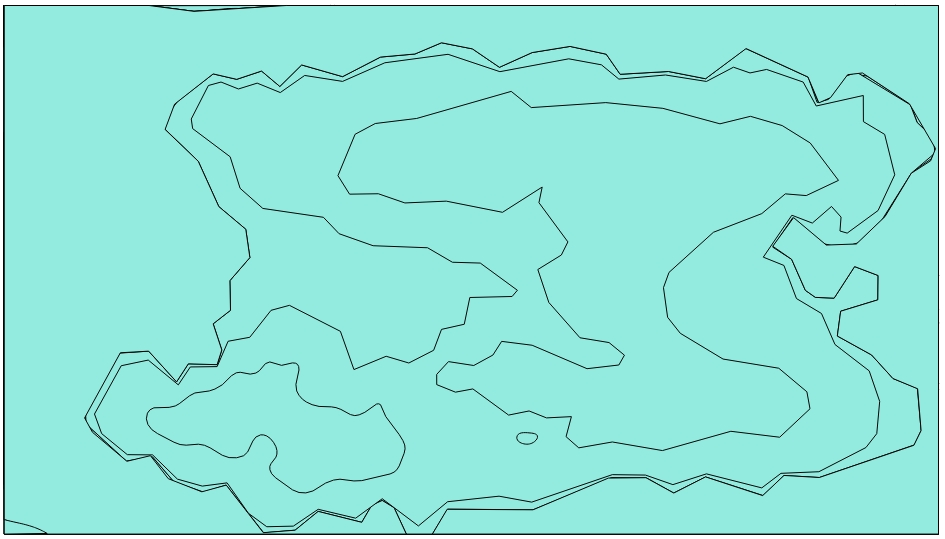
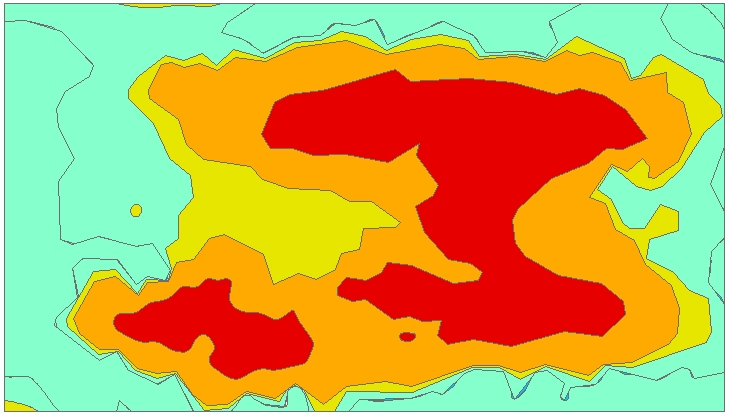
Thesis update.

diff --git a/text/3-technologie.tex b/text/3-technologie.tex
@@ -33,7 +33,7 @@ Android\footnote{\url{http://www.qgis.org/en/site/forusers/download.html}}. Zák
 funkcionalitu pomáhají rozšířit zásuvné moduly psané v jazyce Python
 nebo C++. Je propojen s dalšími open source GIS balíčky jako jsou
 např. GRASS GIS, PostGIS nebo MapServer. QGIS je uvolněn pod licencí
-GNU (\zk{GPL}) verze 2 a vyšší.
+GNU (\zk{GPL}) verze 2 a vyšší. \cite{qgis}
 
 Komunita kolem QGIS aktivně podporuje své členy k přispívání a
 zlepšování softwaru - hlášením chyb, překládáním programu do dalších
@@ -80,11 +80,10 @@ každý.
 % (3) https://docs.python.org/3/faq/general.html#general-python-faq
   
 \section{GDAL}
-%Autor: GDAL Team – http://download.osgeo.org/gdal/, CC BY-SA 3.0, https://commons.wikimedia.org/w/index.php?curid=3762589
 %%% ML: pridat logo? (pro zachovani konzistence)
 
 \begin{figure}[H] \centering
-      \includegraphics[width=150pt]{./pictures/gdal_logo.png}
+      \includegraphics[width=100pt]{./pictures/gdal_logo.png}
       \caption[GDAL logo]{GDAL logo (zdroj:
 \href{https://cs.wikipedia.org/wiki/Soubor:GDALLogoColor.svg}{Wikimedia Commons})}
       \label{fig:gdal}
@@ -114,6 +113,7 @@ projekty.
 
 % (4) http://www.gdal.org/ (hlavní strana + FAQ)
 
+\newpage
 \section{Qt Project}
 
 \begin{figure}[H] \centering
@@ -135,9 +135,9 @@ dvě společnosti - The Qt Company a Qt Project, z nichž druhá jmenovaná
 následuje politiku otevřených dat. Qt je tedy dostupný jak pod
 komerční licencí, tak pod open source licencemi GNU \zk{GPL} 2.0, GNU
 \zk{GPL} 3.0 a \zk{LGPL} 3.0. Poslední verzí vydanou před květnem 2017
-byla verze Qt 5.8. (5)
+byla verze Qt 5.8. \cite{qt}
 
-% zmínit Qt Designer % (5) https://www.qt.io/company/
+% (5) https://www.qt.io/company/
 
 \subsection{PyQt} Qt je sice psán v jazyce C++, ale existuje mnoho
 rozhraní pro programování aplikací (\zk{API}) umožňujících propojení s
@@ -146,7 +146,7 @@ PyQt a PySide.
 
 Správa a vývoj PyQt spadá pod firmu Riverbank Computing Limited. PyQt
 je dostupný pod podobnou licencí jako Qt, tedy GNU \zk{GPL} 2.0, GNU
-\zk{GPL} 3.0 a~komerční licencí.
+\zk{GPL} 3.0 a~komerční licencí. \cite{pyqt}
 
 % (6) https://wiki.python.org/moin/PyQt
 

diff --git a/text/tereza-kulovana-bp-2017.tex b/text/tereza-kulovana-bp-2017.tex
@@ -121,12 +121,20 @@
 \misto{Praha}
 
 %% Abstrakt
-\abstrakt {Tato bakalářská práce je zaměřena na~automatizaci
-  zpracování naměřených dat při~terénním radiačním průzkumu. Požadavek
-  na~tento nástroj vzešel ze~strany Armády České republiky, jelikož
-  v~době zadání práce celý postup prováděl operátor ručně. Nástroj je
-  s~využitím externí knihovny implementován do~prostředí open source
-  systému QGIS.}  {Abstract english}
+\abstrakt{Tato bakalářská práce si klade za cíl zautomatizovat zpracování dat naměřených 
+při~terénním radiačním průzkumu. Z mapy dávkových příkonů, resp. plošné 
+aktivity, softwarový nástroj vygeneruje zjednodušené polygony ohraničující 
+oblasti dle zvolených úrovní a textový report kompatibilní s~formátem dle NATO 
+APP-11. Požadavek na~tento nástroj vzešel ze~strany Armády České republiky, 
+jelikož v~době zadání práce celý postup prováděl operátor ručně. Nástroj je 
+s~využitím externí knihovny implementován do~prostředí open source systému 
+QGIS.} {The aim of this bachelor thesis is to automate processing of data measured 
+during the radiation reconnaisance. From map of dose rate or surface 
+activity software tool generates simplified polygons bounding areas of preset 
+levels and a text file in NATO APP-11 compatible format. This plugin was 
+created for Army of the Czech Republic because in time of thesis 
+assignment operator had to process data manually. Plugin uses an external 
+library and is implemented into open source project QGIS.}
 
 %% Klíčová slova
 \klicovaslova
@@ -185,7 +193,7 @@
 	\vspace{1em}
 		%\noindent
 	\par\hspace{2ex}
-	{Ráda bych poděkovala ... }
+	{V~první řadě děkuji vedoucímu bakalářské práce, Ing. Martinu Landovi, PhD., za~rady a pomoc při~zpracování této práce. Dále děkuji Mgr. Janu Helebrantovi (SÚRO) a nadporučíkovi Jiřímu Komárkovi (AČR) za~cenné připomínky a odborné informace. V~neposlední řadě děkuji svým blízkým za~projevenou podporu.}
 }
 
 % Vysázení obsahu

diff --git a/text/2-teorie.tex b/text/2-teorie.tex
@@ -226,7 +226,7 @@ Nově získané hodnoty radiačního monitorování jsou při vkládání do
 programu \zk{MonRaS} porovnávány s informačními úrovněmi. Informační
 %%% ML: v jedne vete 2x "prekroceni", prosim opravit
 úrovně existují dvě: 1. a 2. IU. Při jejich překročení jsou zjišťovány
-důvody jejich přesáhnutí a případně provedeny kroky nutné k odstranění
+důvody přesáhnutí a případně provedeny kroky nutné k odstranění
 příčiny.
 	
 \subsection{Armádní radiační monitorovací síť}	
@@ -289,16 +289,16 @@ Hlavní výhody \zk{MTF} zprávy:
 
 %%% ML: tucne pismo pro cely vycet je mozna az prilis
 \begin{itemize}
-	\item jasně strukturovaný obsah je pochopitelný a předchází nedorozuměním
-	\item je přenositelná mezi různými národy a systémy 
-	\item při přenosu požaduje malou šířku vlnového pásma
-	\item je vhodná pro strojové zpracování
+	\item{jasně strukturovaný obsah je pochopitelný a předchází nedorozuměním}
+	\item{je přenositelná mezi různými národy a systémy}
+	\item{při přenosu požaduje malou šířku vlnového pásma}
+	\item{je vhodná pro strojové zpracování}
 \end{itemize}
 
 Výstupem ze zásuvného modulu je textový report ve formátu v souladu s
-katalogem APP-11. Jedná se o seznam souřadnic lomových bodů polygonů v
-systému \zk{MGRS}, který bude součástí \zk{MTF} zprávy. (viz Kapitola
-4.4 Výstupní report)
+katalogem APP-11 (viz kapitola \ref{sub:output}). Jedná se o seznam 
+souřadnic lomových bodů polygonů v systému \zk{MGRS}, který bude 
+součástí \zk{MTF} zprávy.
 
 \subsection{Military grid reference system}
 

diff --git a/text/4-plugin.tex b/text/4-plugin.tex
@@ -59,6 +59,7 @@ SAGA\footnote{\url{http://www.saga-gis.org/saga_tool_doc/2.1.3/grid_spline_4.htm
 \end{figure}
 
 \section{Výstupní data}
+\label{output}
 
 \begin{enumerate}
 	\item \textbf{Report}
@@ -103,6 +104,7 @@ obsahovat maximálně 15 znaků. Poslední souřadnice je zakončena
 dvojitým lomítkem (označuje konec řádku). Vše mezi prvním lomítkem a
 dvojitým ukončovacím lomítkem se nazývá řádek. Jednotlivé řádky musí
 %%% ML: enterem -> zalomeni radky (btw. pouziva se Unixovy nebo Windows zapis?)
+%%% TK: používám os.linesep, mám to nahradit \n?
 být odděleny znakem zalomení řádky.
 
 \begin{figure}[H]
@@ -136,6 +138,7 @@ se jedná o soubor s názvem \texttt{mgrs.py} a v něm obsaženou metodu
 		\end{itemize}
 
 %%% ML: symbolizovat podle nejake vhodne skaly?
+%%% TK: přidán barevnější obrázek
 \begin{figure}[H]
     \centering
       \includegraphics[width=300pt]{./pictures/vystupni_polygony.jpg}

diff --git a/text/prilohy.tex b/text/prilohy.tex
@@ -25,7 +25,7 @@ from the QGIS plugin repository.
 \begin{figure}[H]
     \centering
       \includegraphics[width=200pt]{./pictures/manage_install.jpg}
-      \caption{Open plugins dialog.}
+      \caption{Open dialog of Plugins.}
       \label{fig:manage}
 \end{figure}
 
@@ -50,7 +50,7 @@ the checkbox \texttt{Show\ also\ experimental\ plugins}.}
 
 \begin{figure}[H]
     \centering
-      \includegraphics[width=350pt]{./pictures/install_search_plugin.jpg}
+      \includegraphics[width=300pt]{./pictures/install_search_plugin.jpg}
       \caption{Search and install the plugin.}
       \label{fig:install}
 \end{figure}
